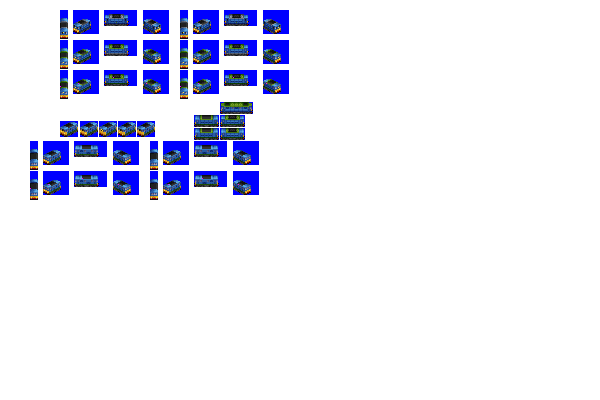
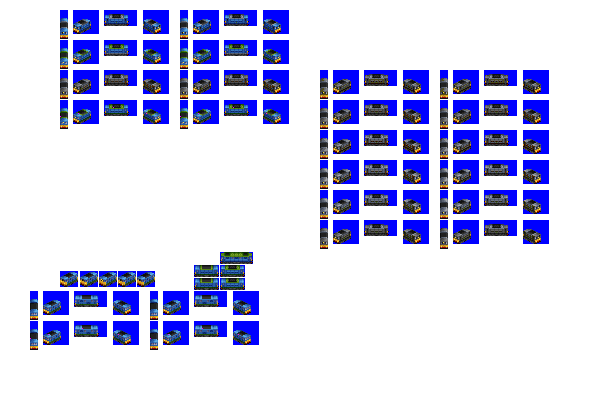
Change: additional livery for Dryth and Flindermouse

Changed region(s): [[0.51, 0.15, 0.93, 0.63], [0.03, 0.18, 0.48, 0.51], [0.03, 0.63, 0.45, 0.87]]

diff --git a/src/vehicles/pony/flindermouse.py b/src/vehicles/pony/flindermouse.py
@@ -19,8 +19,7 @@ def main(**kwargs):
         pantograph_type="diamond-double",
         intro_year_offset=7,  # introduce later than gen epoch by design
         extended_vehicle_life=True,
-        # additional_liveries=["FREIGHT_BLACK", "BANGER_BLUE"],
-        liveries=["LOWER_LINES", "BANGER_BLUE"],
+        liveries=["LOWER_LINES", "BANGER_BLUE", "FREIGHT_BLACK"],
         sprites_complete=True,
     )
 

diff --git a/src/vehicles/pony/dryth.py b/src/vehicles/pony/dryth.py
@@ -19,7 +19,7 @@ def main(**kwargs):
         pantograph_type="diamond-single",
         intro_year_offset=8,  # introduce later than gen epoch by design
         extended_vehicle_life=True,
-        liveries=["BANGER_BLUE", "CONVENTIONAL_WISDOM"],
+        liveries=["BANGER_BLUE", "CONVENTIONAL_WISDOM", "FREIGHT_BLACK"],
         sprites_complete=True,
     )
 

diff --git a/bin/company_colour_remaps.py b/bin/company_colour_remaps.py
@@ -9,8 +9,8 @@ from polar_fox import graphics_units
 # requires a tmp dir to exist, which should be gitignored
 # set the filename
 input_filenames = [
-    "falcon",
-    "dragon",
+    "dryth",
+    "flindermouse",
 ]
 
 CC1 = 198
